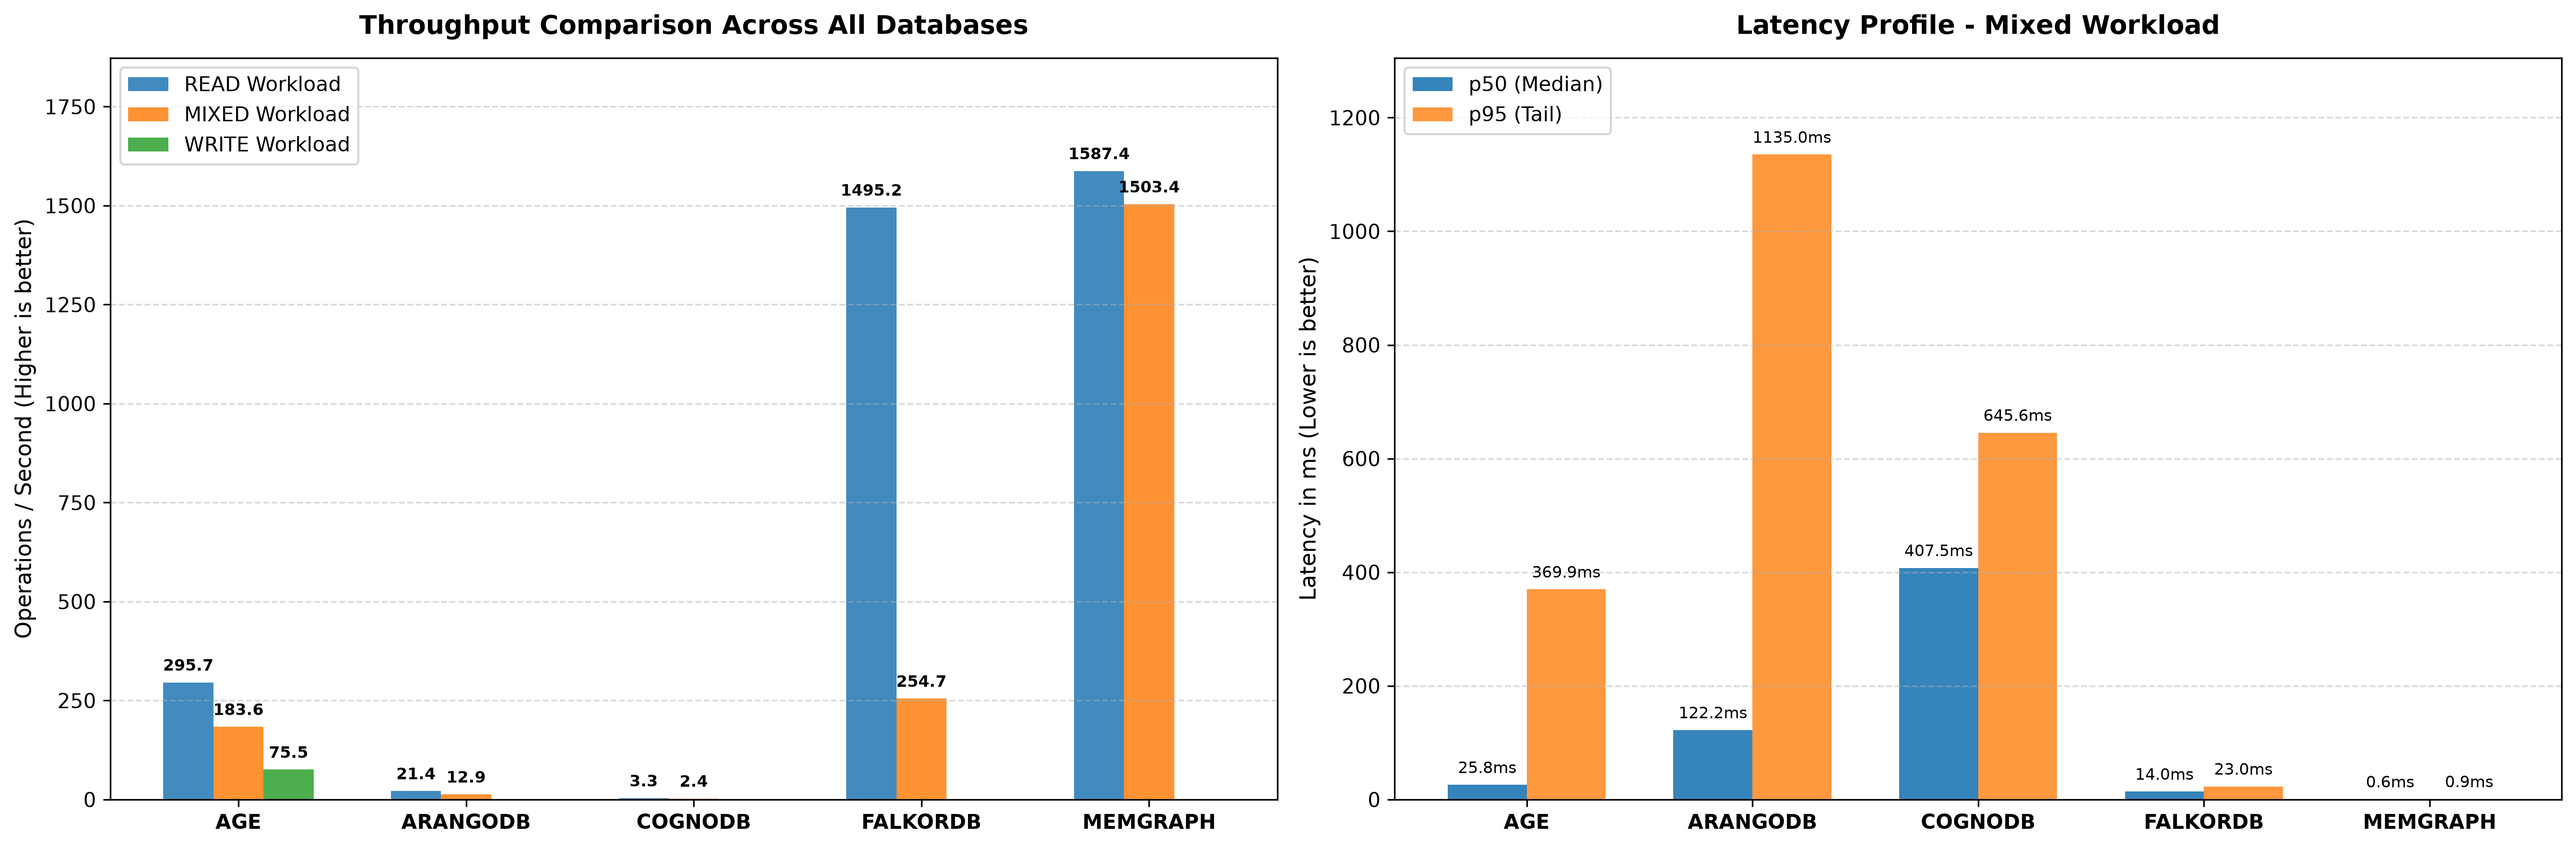
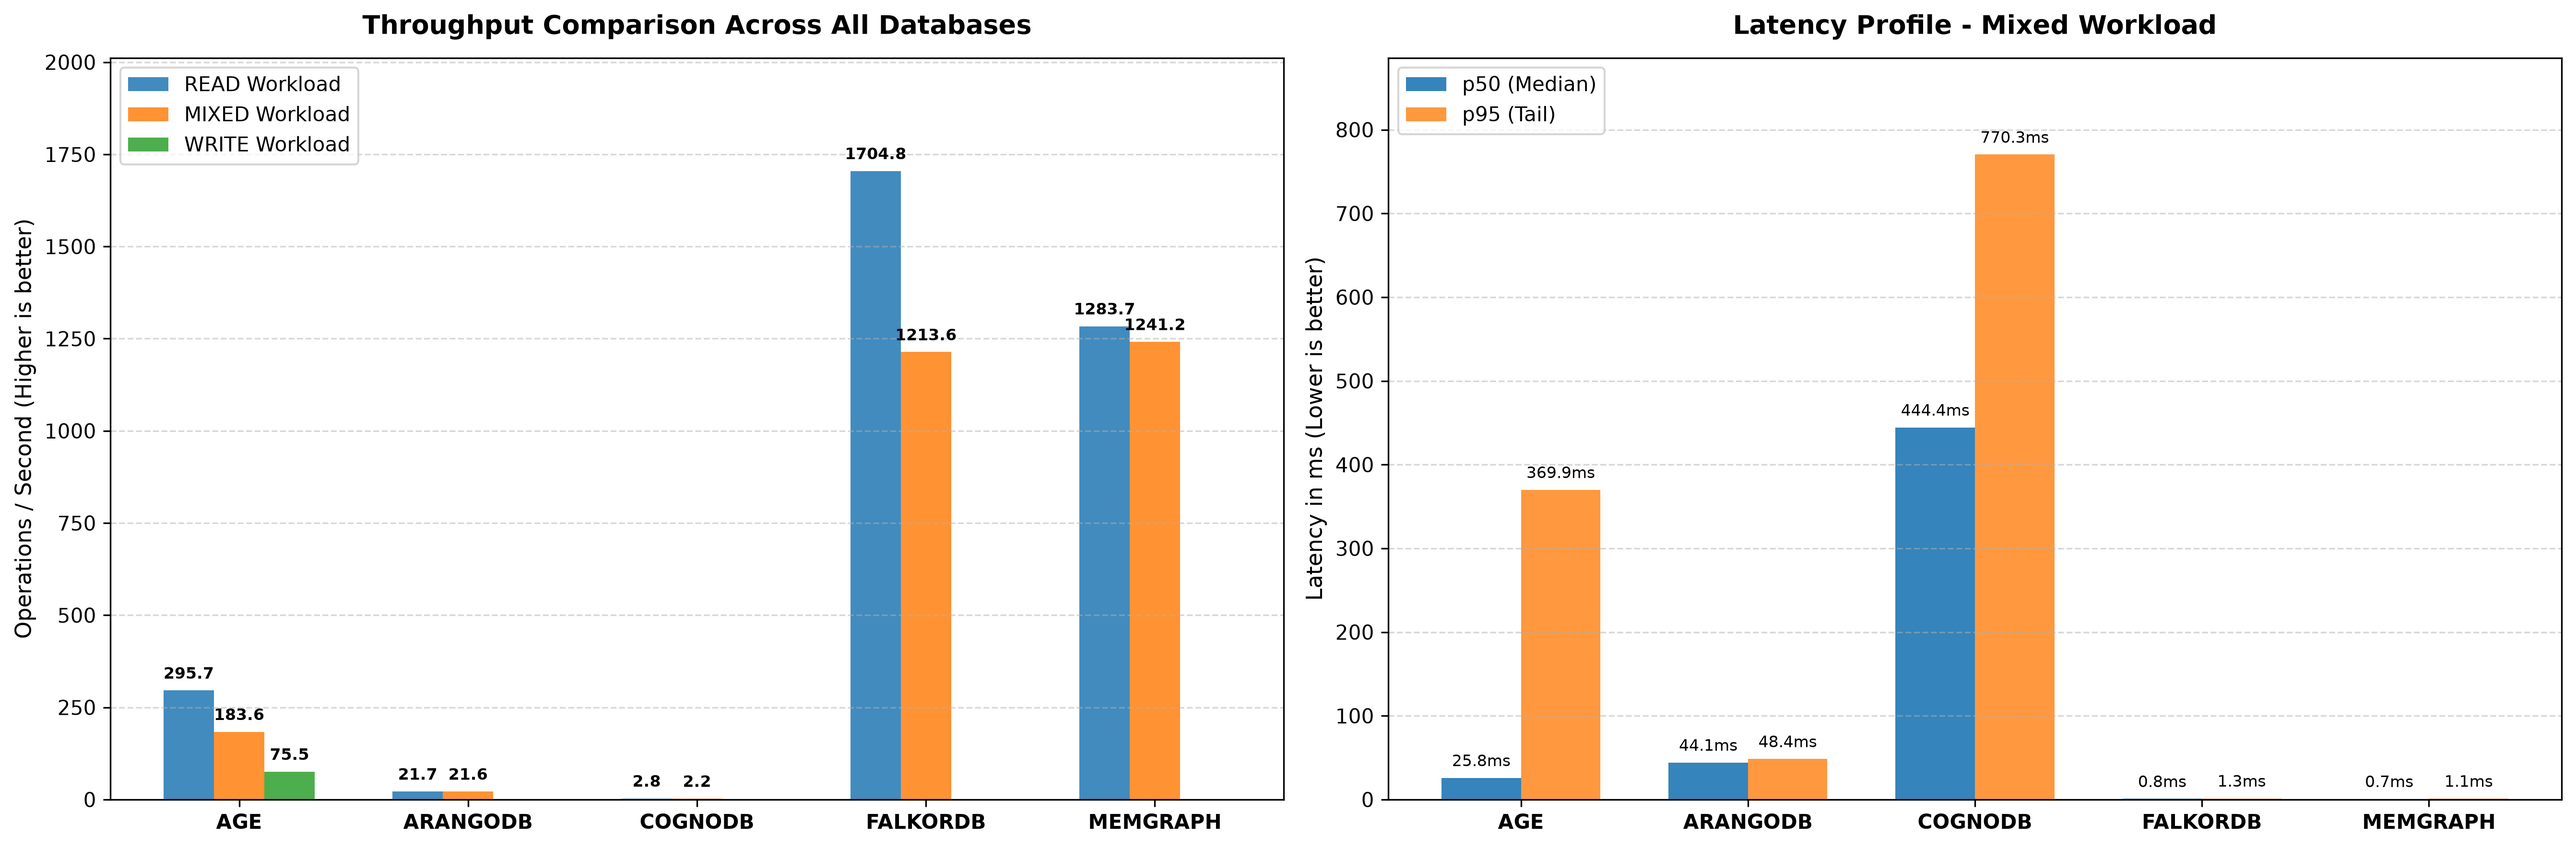
Completed AGE benchmark and generated final plots

diff --git a/benchmark.py b/benchmark.py
@@ -55,13 +55,20 @@ class BenchmarkRunner:
                 uri = os.getenv("NEO4J_URI", "bolt://localhost:7687")
                 user = os.getenv("NEO4J_USER", "neo4j")
                 pwd = os.getenv("NEO4J_PASSWORD", "postgres")
-            else:  # memgraph
-                uri = os.getenv("MEMGRAPH_URI", "bolt://localhost:7688")
+            else:  # memgraph (Default Bolt Port is 7687)
+                uri = os.getenv("MEMGRAPH_URI", "bolt://localhost:7687")
                 user = os.getenv("MEMGRAPH_USER", "")
                 pwd = os.getenv("MEMGRAPH_PASSWORD", "")
 
             auth = (user, pwd) if user and pwd else None
             self.driver = GraphDatabase.driver(uri, auth=auth)
+
+            # Seed basic sample node if empty
+            try:
+                with self.driver.session() as session:
+                    session.run("MERGE (u:User {id: 1})")
+            except Exception as e:
+                print(f"Warning: Failed to seed {self.db_type}: {e}")
 
         elif self.db_type == "arangodb":
             from arango import ArangoClient
@@ -71,7 +78,31 @@ class BenchmarkRunner:
             pwd = os.getenv("ARANGO_PASSWORD", "your_password")
 
             self.client = ArangoClient(hosts=url)
-            self.db = self.client.db("wiki_vote_db", username=user, password=pwd)
+
+            # Ensure database exists
+            sys_db = self.client.db("_system", username=user, password=pwd)
+            db_name = "wiki_vote_db"
+            if not sys_db.has_database(db_name):
+                sys_db.create_database(db_name)
+
+            self.db = self.client.db(db_name, username=user, password=pwd)
+
+            # Ensure document collection 'User' exists
+            if not self.db.has_collection("User"):
+                self.db.create_collection("User")
+
+            # Ensure edge collection 'VOTED_FOR' exists
+            if not self.db.has_collection("VOTED_FOR"):
+                self.db.create_collection("VOTED_FOR", edge=True)
+
+            # Seed fallback sample data if empty to prevent 404/traversal errors
+            user_coll = self.db.collection("User")
+            if user_coll.count() == 0:
+                user_coll.insert({"_key": "1", "id": 1})
+
+            edge_coll = self.db.collection("VOTED_FOR")
+            if edge_coll.count() == 0:
+                edge_coll.insert({"_from": "User/1", "_to": "User/1"})
 
         elif self.db_type == "falkordb":
             import redis
@@ -79,6 +110,10 @@ class BenchmarkRunner:
             host = os.getenv("FALKORDB_HOST", "localhost")
             port = int(os.getenv("FALKORDB_PORT", 6379))
             self.driver = redis.Redis(host=host, port=port, decode_responses=True)
+            try:
+                self.driver.execute_command("GRAPH.QUERY", "wiki_vote", "MERGE (u:User {id: 1})")
+            except Exception as e:
+                print(f"Warning: Failed to seed FalkorDB: {e}")
 
         elif self.db_type == "age":
             import psycopg2
@@ -222,7 +257,7 @@ if __name__ == "__main__":
 
     nodes = runner.execute("get_start_nodes")
     if not nodes:
-        print(f"⚠ No nodes found in [{DB_TYPE.upper()}]. Ensure dataset is loaded!")
+        print(f"⚠ No nodes found in [{DB_TYPE.upper()}]. Using default fallback ID.")
         nodes = [1]  # Default fallback ID
 
     print(f"Using {len(nodes)} start nodes for traversal benchmarks.\n")

diff --git a/ingest.py b/ingest.py
@@ -4,38 +4,25 @@ from abc import ABC, abstractmethod
 from dotenv import load_dotenv
 
 load_dotenv()
-
 DB_TYPE = os.getenv("DB_TYPE", "falkordb").lower()
 FILE_PATH = "datasets/Wiki-Vote.txt"
 BATCH_SIZE = 5000  # Optimal chunk size for batch processing across databases
-
-
-# ==============================================================================
-# 1. ABSTRACT BASE CLASS FOR INGESTION
-# ==============================================================================
 
 class BaseIngestor(ABC):
 
     @abstractmethod
     def connect(self):
         pass
-
     @abstractmethod
     def setup_schema(self):
         pass
-
     @abstractmethod
     def ingest_batch(self, batch: list[dict]):
         pass
-
     @abstractmethod
     def close(self):
         pass
 
-
-# ==============================================================================
-# 2. DATABASE SPECIFIC IMPLEMENTATIONS
-# ==============================================================================
 
 class Neo4jFamilyIngestor(BaseIngestor):
     """Handles Neo4j, CognoDB, and Memgraph (Cypher-based)."""
@@ -168,7 +155,6 @@ class FalkorDBIngestor(BaseIngestor):
         MERGE (b:BenchmarkUser {id: row.target})
         MERGE (a)-[:BENCHMARK_VOTED]->(b)
         """
-        # Execute query passing parameters via RedisGraph command format
         self.r.execute_command(
             "GRAPH.QUERY",
             "benchmark_graph",
@@ -226,12 +212,6 @@ class AgeIngestor(BaseIngestor):
     def close(self):
         if self.conn:
             self.conn.close()
-
-
-# ==============================================================================
-# 3. FACTORY AND BENCHMARK RUNNER
-# ==============================================================================
-
 def get_ingestor(db_type: str) -> BaseIngestor:
     if db_type in ["neo4j", "cognodb", "memgraph"]:
         return Neo4jFamilyIngestor(db_type)
@@ -254,8 +234,6 @@ def parse_dataset(file_path: str) -> list[dict]:
             source, target = line.strip().split()
             records.append({"source": int(source), "target": int(target)})
     return records
-
-
 def run_benchmark():
     print(f"=== Starting Ingestion Benchmark for [{DB_TYPE.upper()}] ===")
 
@@ -279,14 +257,10 @@ def run_benchmark():
     end_time = time.perf_counter()
     elapsed = end_time - start_time
     throughput = total_records / elapsed if elapsed > 0 else 0
-
-    print("\n-----------------------------------------")
     print(f"Ingestion Results [{DB_TYPE.upper()}]:")
     print(f"Total Records Ingested: {total_records}")
     print(f"Total Duration:         {elapsed:.2f} seconds")
     print(f"Throughput Rate:        {throughput:.2f} records/sec")
-    print("-----------------------------------------")
-
     ingestor.close()
 
 if __name__ == "__main__":

diff --git a/mixed.py b/mixed.py
@@ -17,7 +17,6 @@ TOTAL_OPS = int(os.getenv("TOTAL_OPS", "100"))
 WORKERS = int(os.getenv("WORKERS", "10"))
 CSV_FILE = "benchmark_results.csv"
 
-# Container Mapping for Resource Telemetry
 CONTAINER_NAMES = {
     "age": "apache-age",
     "falkordb": "falkordb",
@@ -25,10 +24,6 @@ CONTAINER_NAMES = {
     "neo4j": "neo4j",
     "arangodb": "arangodb",
 }
-
-# ==============================================================================
-# 1. BASE CLIENT ADAPTER
-# ==============================================================================
 
 class BaseWorkloadRunner(ABC):
     @abstractmethod
@@ -48,11 +43,6 @@ class BaseWorkloadRunner(ABC):
 
     @abstractmethod
     def close(self): pass
-
-# ==============================================================================
-# 2. DATABASE ADAPTER IMPLEMENTATIONS
-# ==============================================================================
-
 class Neo4jFamilyWorkload(BaseWorkloadRunner):
     def __init__(self, db_type: str):
         self.db_type = db_type
@@ -74,7 +64,6 @@ class Neo4jFamilyWorkload(BaseWorkloadRunner):
         auth = (user, pwd) if user and pwd else None
         self.driver = GraphDatabase.driver(uri, auth=auth)
         self.driver.verify_connectivity()
-
     def setup_schema(self):
         query = ("CREATE CONSTRAINT IF NOT EXISTS FOR (u:BenchmarkUser) REQUIRE u.id IS UNIQUE"
                  if self.db_type != "memgraph" else "CREATE INDEX ON :BenchmarkUser(id);")
@@ -216,11 +205,6 @@ class AgeWorkload(BaseWorkloadRunner):
 
     def close(self):
         if self.pool: self.pool.closeall()
-
-
-# ==============================================================================
-# 3. HELPER FUNCTIONS & EXECUTOR
-# ==============================================================================
 
 def get_runner(db_type: str) -> BaseWorkloadRunner:
     if db_type in ["neo4j", "cognodb", "memgraph"]: return Neo4jFamilyWorkload(db_type)

diff --git a/connect.py b/connect.py
@@ -5,11 +5,9 @@ load_dotenv()
 
 db_type = os.getenv("DB_TYPE", "arangodb").lower()
 
-
 def connect():
     if db_type in ["cognodb", "neo4j", "memgraph"]:
         from neo4j import GraphDatabase
-
         # Map environment variables based on DB_TYPE
         if db_type == "cognodb":
             uri, user, pwd = (
@@ -37,7 +35,6 @@ def connect():
             ]
             print(f"{db_type.upper()}: {msg}")
         driver.close()
-
     elif db_type == "arangodb":
         from arango import ArangoClient
 
@@ -51,7 +48,6 @@ def connect():
 
         res = sys_db.aql.execute("RETURN 'Connected successfully!'")
         print(f"ARANGODB: {res.next()}")
-
     elif db_type == "falkordb":
         import redis
 
@@ -66,7 +62,6 @@ def connect():
 
     elif db_type == "age":
         import psycopg2
-
         conn = psycopg2.connect(
             host=os.getenv("AGE_HOST", "localhost"),
             port=os.getenv("AGE_PORT", 5432),
@@ -81,10 +76,7 @@ def connect():
             cur.execute("SELECT 'Connected successfully!' AS message;")
             print(f"AGE: {cur.fetchone()[0]}")
         conn.close()
-
     else:
         print(f"Unknown database type: {db_type}")
-
-
 if __name__ == "__main__":
     connect()

diff --git a/run.py b/run.py
@@ -7,7 +7,7 @@ import time
 DATABASES = ["memgraph", "arangodb", "cognodb", "age", "falkordb"]
 
 def run_suite():
-    print("🚀 Running benchmarks for remaining databases...\n")
+    print("Running benchmarks for remaining databases...\n")
     python_exe = sys.executable
 
     for db in DATABASES:
@@ -20,9 +20,9 @@ def run_suite():
 
         try:
             subprocess.run([python_exe, "benchmark.py"], env=env, check=True)
-            print(f"✅ Successfully finished {db.upper()}\n")
+            print(f"Successfully finished {db.upper()}\n")
         except subprocess.CalledProcessError as e:
-            print(f"❌ Failed to run {db.upper()}: {e}\n")
+            print(f"Failed to run {db.upper()}: {e}\n")
 
         time.sleep(2)
 

diff --git a/plot.py b/plot.py
@@ -160,7 +160,7 @@ def plot_benchmark_results():
 
     plt.tight_layout()
     plt.savefig(OUTPUT_IMAGE, dpi=300, bbox_inches="tight")
-    print(f"📊 Chart successfully saved as '{OUTPUT_IMAGE}'.")
+    print(f"Chart successfully saved as '{OUTPUT_IMAGE}'.")
 
 
 if __name__ == "__main__":
